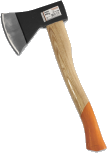
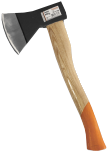
Красивый топор

diff --git a/style.css b/style.css
@@ -304,9 +304,8 @@ main .scene2 [for="scene1"]{
     height: 140px;
 }
 #toporControl:checked ~ .scene [for="toporControl"]{
-    transform: translate(30px, 270px) rotate(-60deg) scaleX(-2) scaleY(2);
-    position: fixed;
-    z-index: 2;
+    transform: translate(-130px, 34px) scale(1) translateZ(250px) rotateY(0) rotateX(30deg) rotateZ(50deg);
+    z-index: 9;
 }
 /* Ветка */
 .branch{
